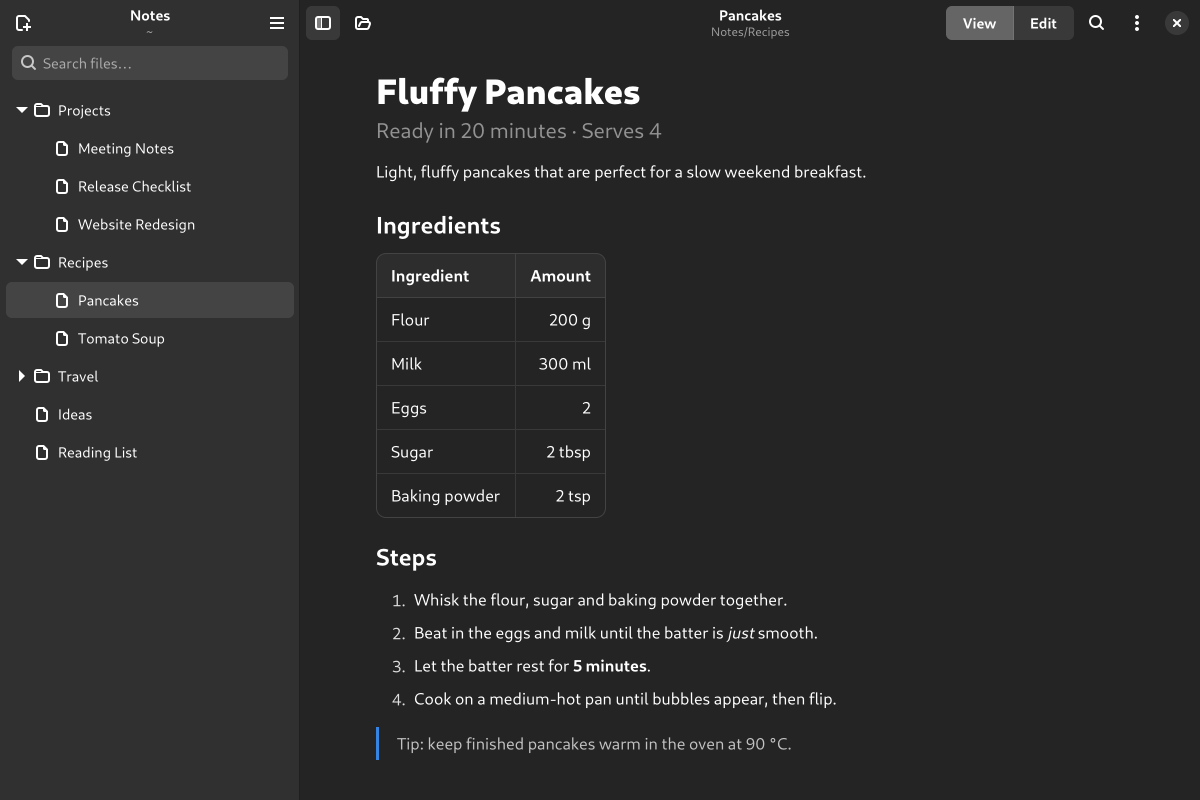
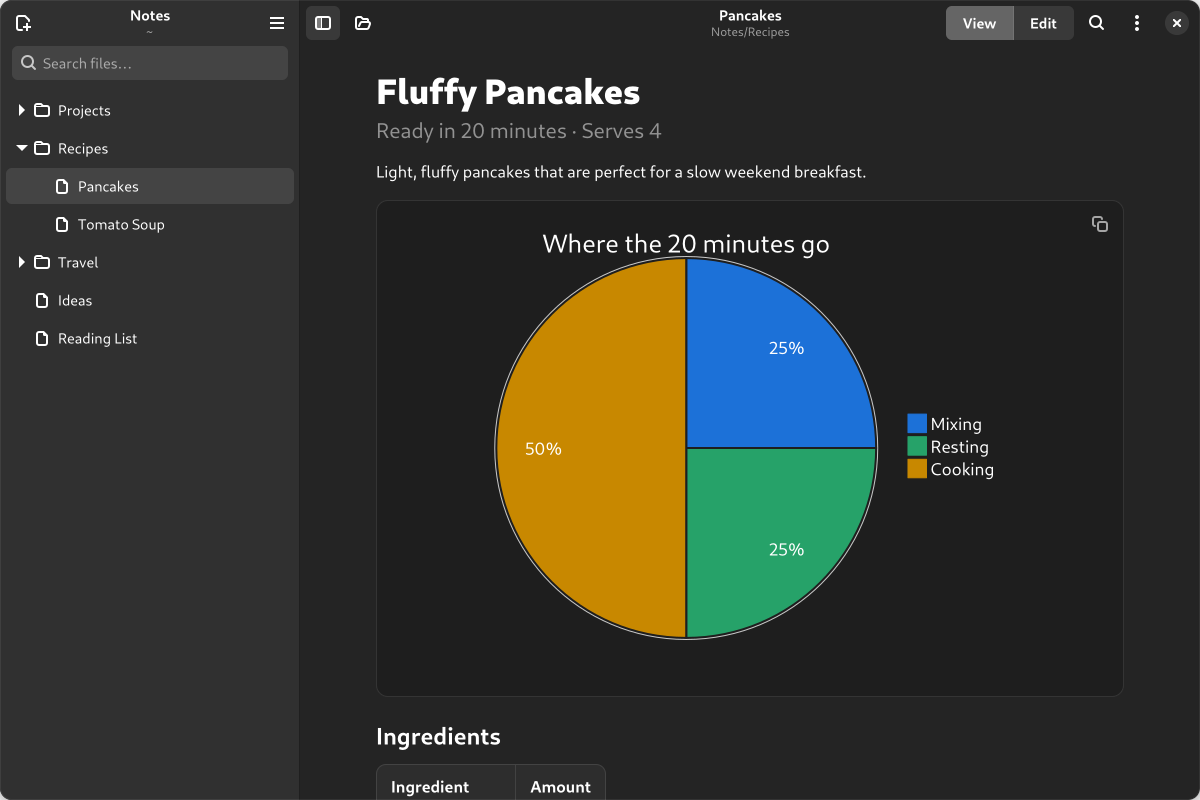
docs: show diagrams in the screenshots

diff --git a/README.md b/README.md
@@ -5,12 +5,12 @@ libadwaita. Open a folder to browse its Markdown files in the sidebar, then read
 edit them. Markdown is parsed and rendered by the app itself into native widgets:
 no web engine and no HTML library.
 
-![A note shown in View mode, with the folder tree in the sidebar](data/screenshots/view.png)
+![A note with a flowchart shown in View mode, with the folder tree in the sidebar](data/screenshots/view.png)
 
 <table>
   <tr>
-    <td><img src="data/screenshots/side-by-side.png" alt="Editing a note side by side with its preview"></td>
-    <td><img src="data/screenshots/dark.png" alt="A recipe shown in dark mode"></td>
+    <td><img src="data/screenshots/side-by-side.png" alt="Editing a note and its flowchart side by side with the preview"></td>
+    <td><img src="data/screenshots/dark.png" alt="A recipe with a pie chart shown in dark mode"></td>
   </tr>
   <tr>
     <td align="center">Edit and preview side by side</td>
